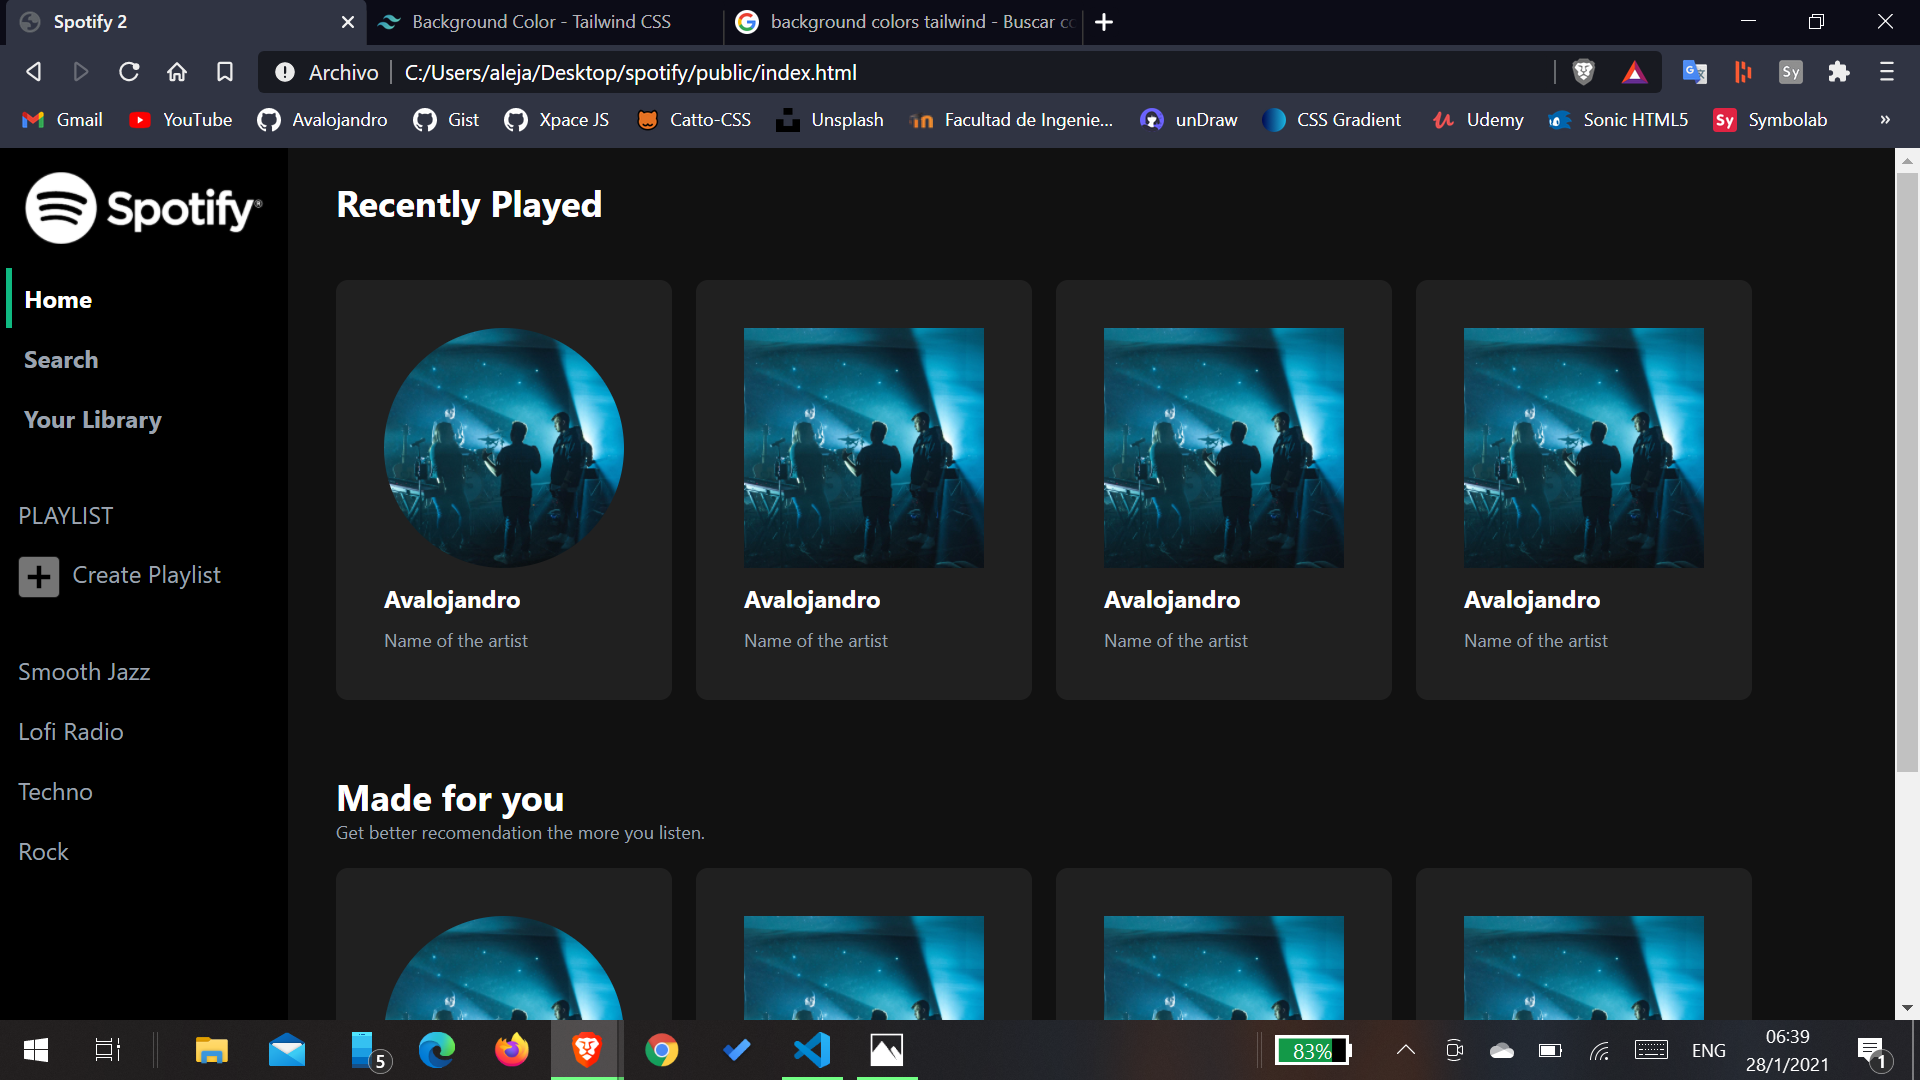
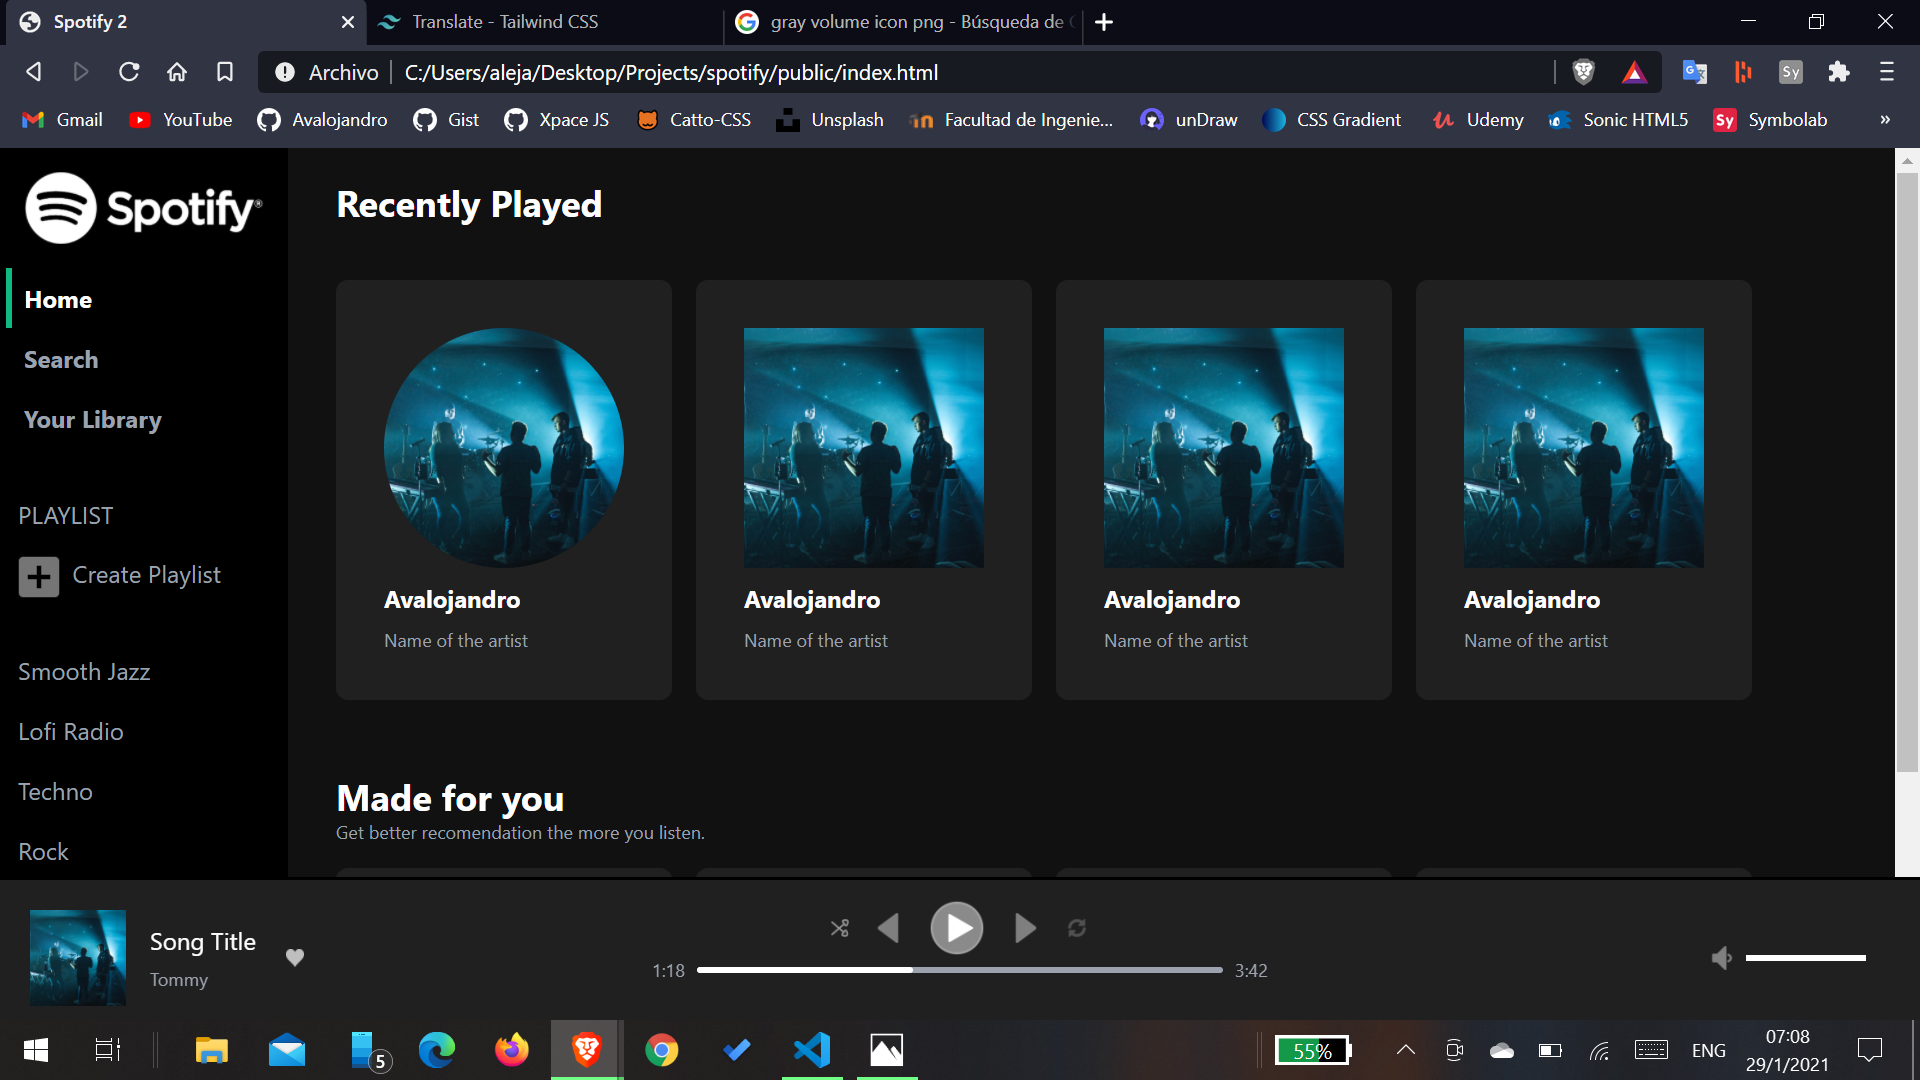
Player Bar Finished

diff --git a/public/index.html b/public/index.html
@@ -94,9 +94,30 @@
                 <span class="text-white">Song Title</span><br>
                 <span class="text-gray-400 text-xs">Tommy</span>
             </div>
+            <div class="inline-block pl-5"><img class="w-3 h-3" src="../assets/heart.png" alt=""></div>
         </div>
-        <div>avalos</div>
-        <div>santamaria</div>
+        
+        <div class="text-center">
+            <div class="pt-3 items-center flex justify-center">
+                <div class="mx-2"><img class="w-3 h-3" src="../assets/random.png" alt=""></div>
+                <div class="mx-2"><img class="w-5 h-5 flip" src="../assets/arrow.png" alt=""></div>
+                <div class="mx-2"><img class="w-10 h-10" src="../assets/play.png" alt=""></div>
+                <div class="mx-2"><img class="w-5 h-5" src="../assets/arrow.png" alt=""></div>
+                <div class="mx-2"><img class="w-4 h-4" src="../assets/replay.png" alt=""></div>
+            </div>
+            <div class="flex items-center">
+                <span class="px-2 text-xs text-gray-400">1:18</span>
+                <div class="w-full h-1 bg-gray-400 rounded">
+                    <div class="w-36 h-1 bg-white rounded"></div>
+                </div>
+                <span class="px-2 text-xs text-gray-400">3:42</span>
+            </div>
+        </div>
+        
+        <div class="justify-end flex items-center pr-7">
+            <img class="w-4 h-4 inline-block" src="../assets/volume.png" alt="">
+            <div class="h-1 w-20 bg-white mx-2"></div>
+        </div>
     </div>
 
 </div>

diff --git a/public/style.css b/public/style.css
@@ -14,5 +14,8 @@
     transform: translateY(-10px);
     transition: 0.5s;
 }
+.flip{
+    transform: scaleX(-1);
+}
 
 
